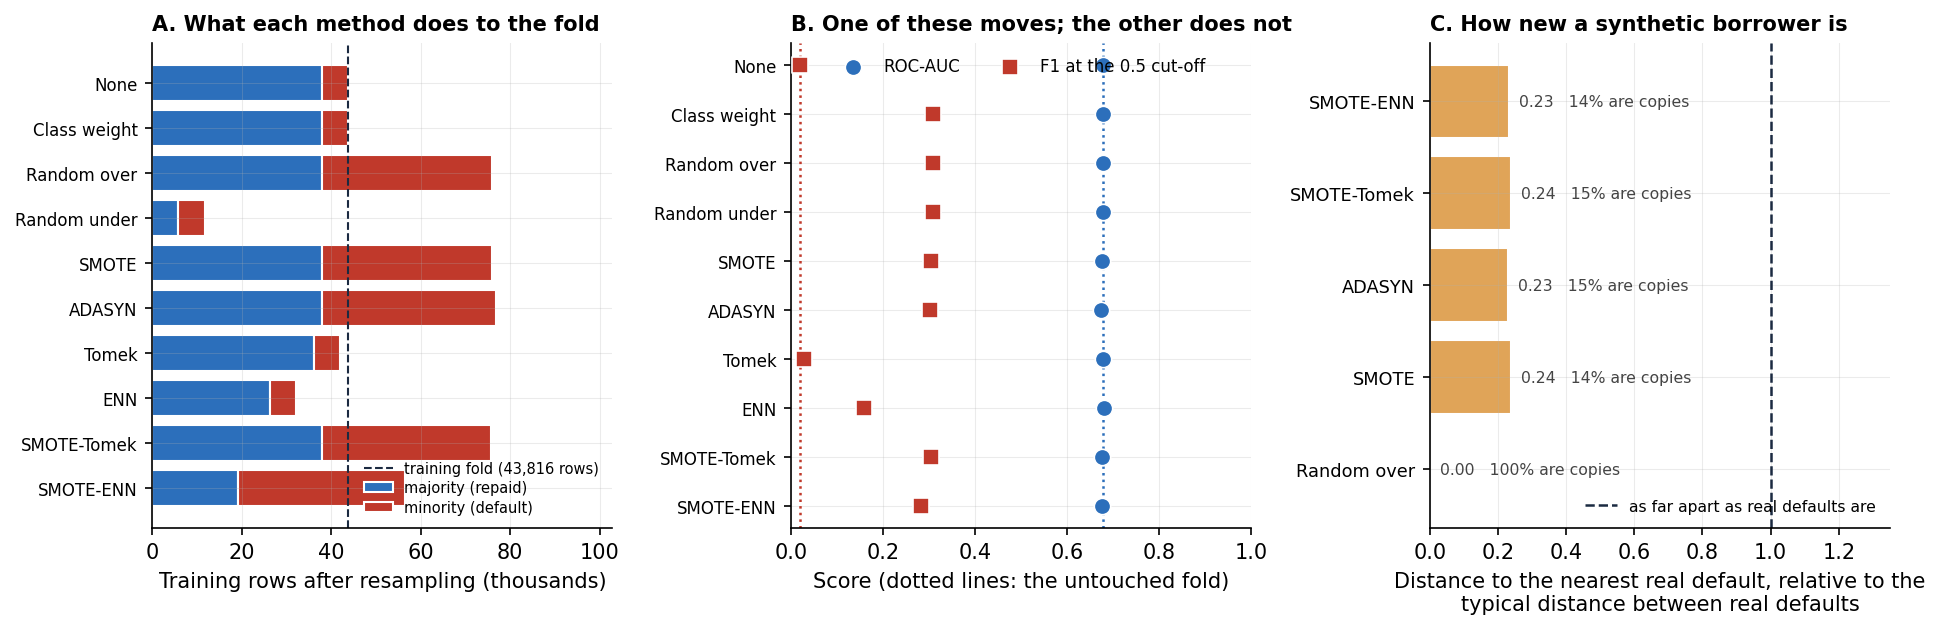
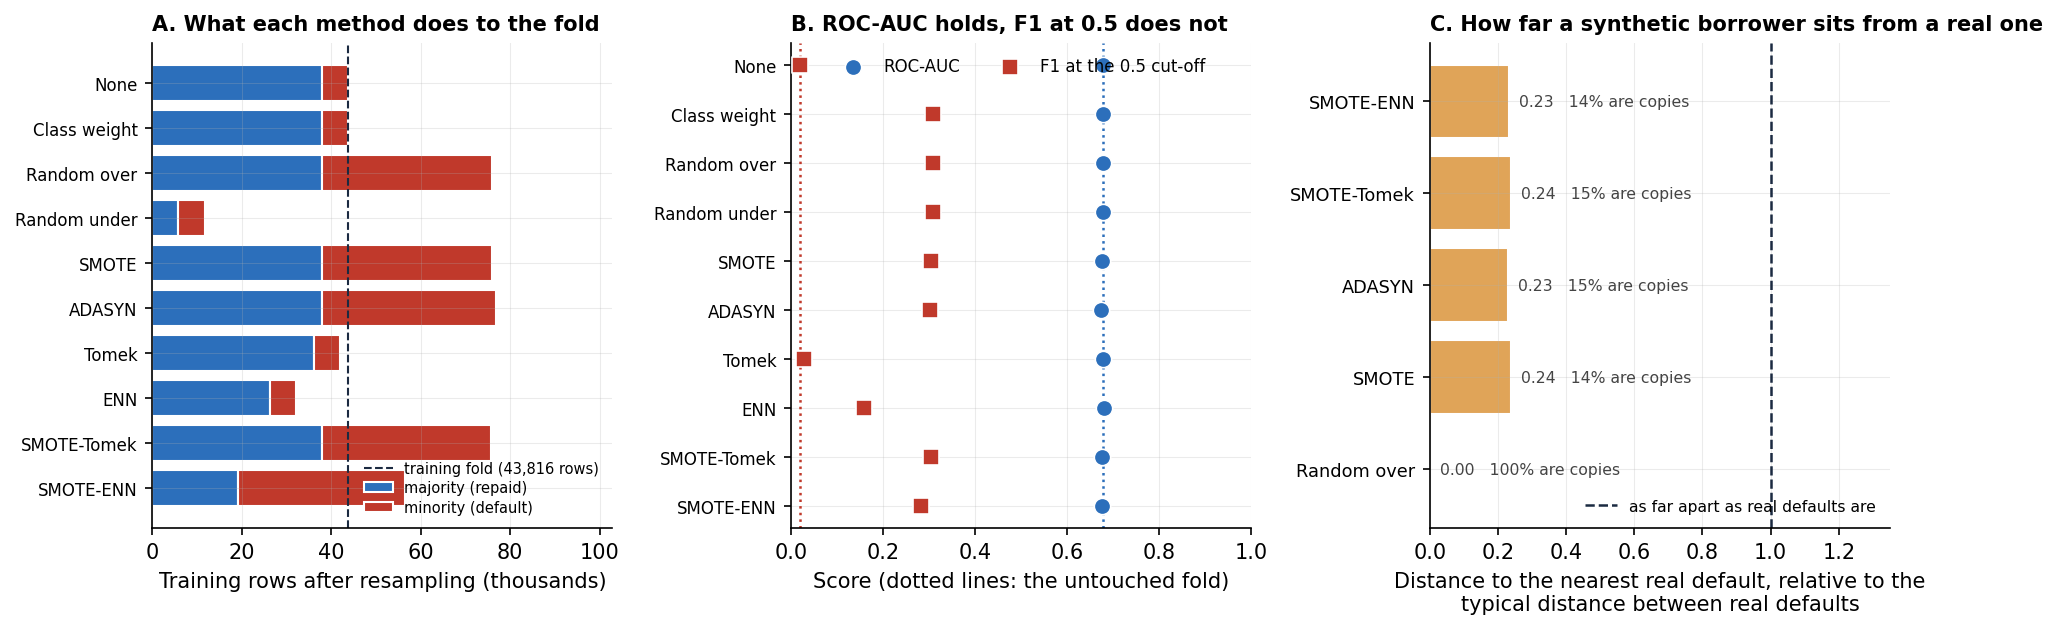
Rewrite eight chart titles that named no quantity, and re-render the figures
Eight panel titles were broken on their own terms: one opened on a conjunction
and read as a fragment continuing the previous panel, one was an interrogative
punctuated with a period, one carried a dangling modifier, and the rest named
nothing that appears in the panel. Replacements state what is plotted.

Only string literals changed, so the pipeline was re-run under the same master
seed to re-render all nine figures. Every value in results.json and every field
of the 37 output tables is identical to the previous run; the only diffs are the
wall-clock column.

diff --git a/src/plots.py b/src/plots.py
@@ -268,7 +268,7 @@ def fig_crossval(records, sweep, cv_results, path):
     ax.set_xlabel("Loans available to the ten folds")
     ax.set_ylabel("SD of the fold default rate (percentage points)")
     ax.legend(frameon=False, fontsize=8.5)
-    _panel(ax, "B", "Stratification earns its keep only when small")
+    _panel(ax, "B", "Stratification matters only at small n")
 
     ax = axes[2]                                        # temporal drift
     d = pd.DataFrame(cv_results["temporal_drift"])
@@ -334,7 +334,7 @@ def fig_resampling(shapes, grid, neigh, path):
     ax.set_xlabel("Score (dotted lines: the untouched fold)")
     ax.set_xlim(0, 1)
     ax.legend(frameon=False, fontsize=8, loc="upper center", ncol=2)
-    _panel(ax, "B", "One of these moves; the other does not")
+    _panel(ax, "B", "ROC-AUC holds, F1 at 0.5 does not")
 
     ax = axes[2]                                        # what a synthetic row is
     if len(neigh):
@@ -354,7 +354,7 @@ def fig_resampling(shapes, grid, neigh, path):
                       "typical distance between real defaults")
         ax.set_xlim(0, max(1.35, float(d["ratio"].max()) * 1.45))
         ax.legend(frameon=False, fontsize=7.5, loc="lower right")
-    _panel(ax, "C", "How new a synthetic borrower is")
+    _panel(ax, "C", "How far a synthetic borrower sits from a real one")
 
     fig.tight_layout()
     fig.savefig(path, bbox_inches="tight")
@@ -392,7 +392,7 @@ def fig_resampling_effect(holdout, resampling, y_te, path):
     ax.set_xlim(0, 1)
     ax.set_ylim(0, 1)
     ax.legend(frameon=False, fontsize=7.5, loc="upper left")
-    _panel(ax, "B", "And it destroys the probabilities")
+    _panel(ax, "B", "What each method does to the probabilities")
 
     ax = axes[2]                                        # the control
     d = pd.DataFrame(resampling["threshold_control"])
@@ -407,7 +407,7 @@ def fig_resampling_effect(holdout, resampling, y_te, path):
     ax.set_xlabel("F1 on the out-of-fold predictions")
     ax.set_xlim(0, max(float(d["f1_at_best"].max()), float(d["f1_at_half"].max())) * 1.45)
     ax.legend(frameon=False, fontsize=7.5, loc="lower right", labelspacing=0.3)
-    _panel(ax, "C", "Everything resampling buys, a threshold buys free")
+    _panel(ax, "C", "The threshold recovers what resampling bought")
 
     fig.tight_layout()
     fig.savefig(path, bbox_inches="tight")
@@ -521,7 +521,7 @@ def fig_errors(err, y_te, p_te, path):
     ax.set_xlabel("Risk decile (1 = safest)")
     ax.set_ylabel("Default rate (%)")
     ax.legend(frameon=False, fontsize=8.5, loc="upper left")
-    _panel(ax, "C", "Does the score order borrowers")
+    _panel(ax, "C", "Observed risk climbs with predicted risk")
 
     fig.tight_layout()
     fig.savefig(path, bbox_inches="tight")
@@ -578,7 +578,7 @@ def fig_operating_point(err, costs, path):
     ax.set_ylim(0, 1.30)
     ax.set_yticks([0, 0.25, 0.5, 0.75, 1.0])
     ax.legend(frameon=False, fontsize=8, loc="center right")
-    _panel(ax, "B", "Six rules, six different lenders")
+    _panel(ax, "B", "Six rules, six operating points")
 
     ax = axes[2]                                        # portfolio view
     d = pd.DataFrame(err["approval_curve"])
@@ -595,7 +595,7 @@ def fig_operating_point(err, costs, path):
     ax.set_xlabel("Share of applicants approved (%)")
     ax.set_ylabel("Interest earned less losses ($M)")
     ax.legend(frameon=False, fontsize=8, loc="lower center")
-    _panel(ax, "C", "The decision a lender actually makes")
+    _panel(ax, "C", "Interest earned less losses, by approval rate")
 
     fig.tight_layout()
     fig.savefig(path, bbox_inches="tight")
